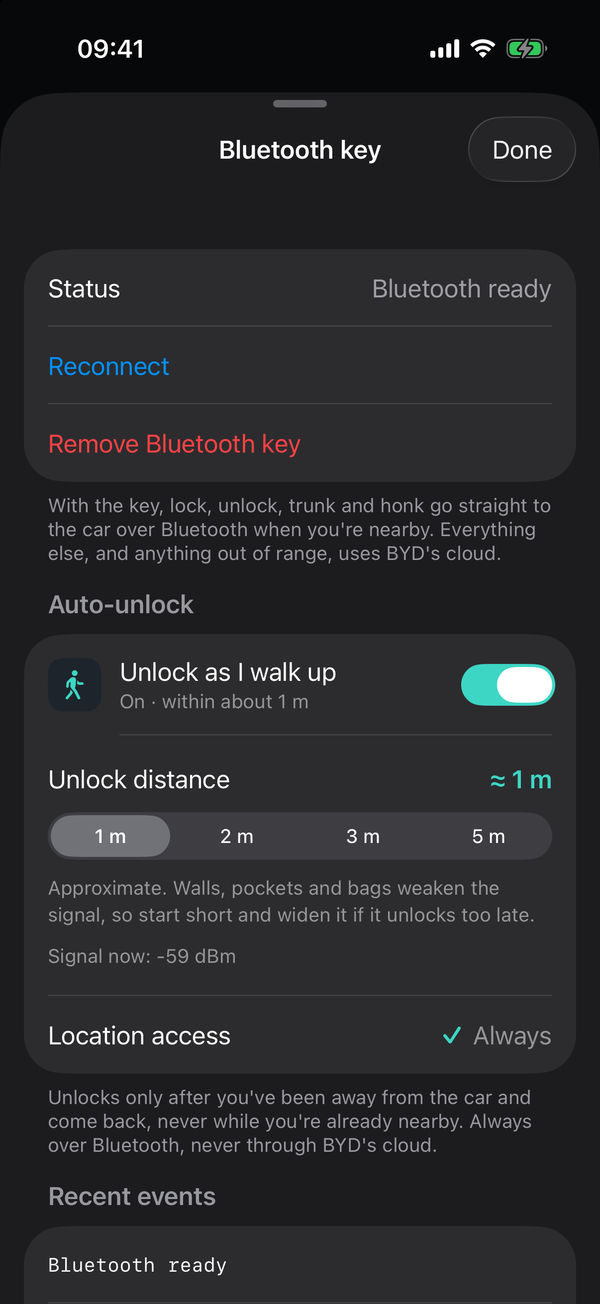
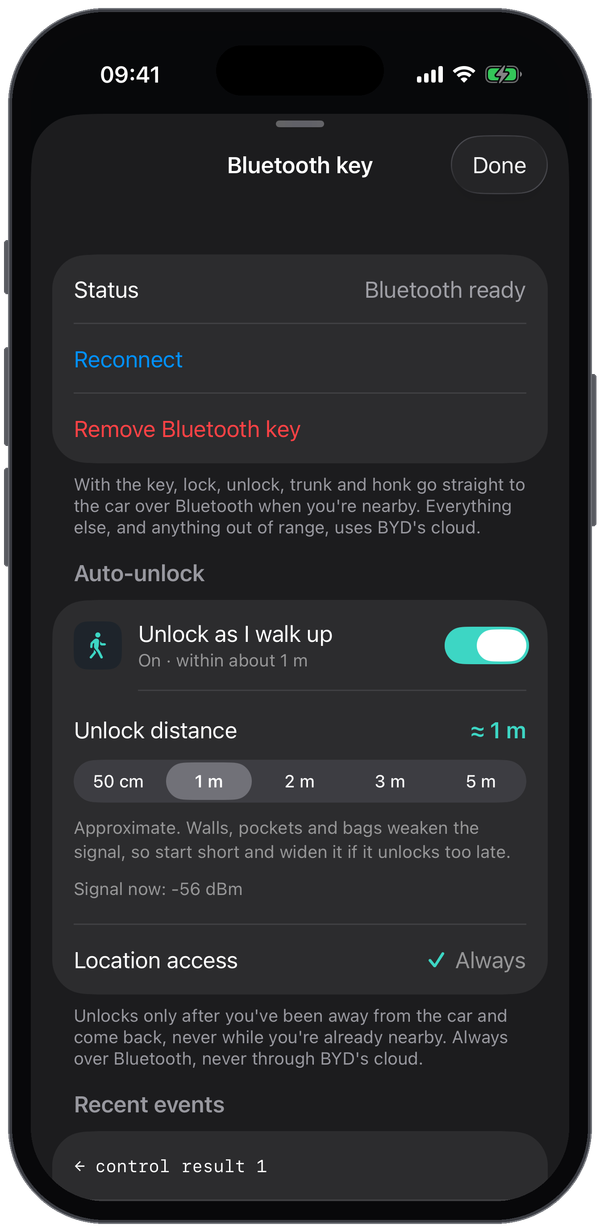
Add a 50 cm unlock distance and framed screenshots
- Auto-unlock distances are now 50 cm, 1, 2, 3 and 5 m (stored in cm;
  older saved settings in metres carry over)
- README screenshots shown inside a phone frame, with more space between

diff --git a/ios/BYDCompanion/BLE/AutoUnlock.swift b/ios/BYDCompanion/BLE/AutoUnlock.swift
@@ -14,11 +14,17 @@ import UserNotifications
 @MainActor
 @Observable
 final class AutoUnlock: NSObject {
-    static let distances = [1, 2, 3, 5]
+    /// Unlock distances, in centimetres.
+    static let distances = [50, 100, 200, 300, 500]
 
-    /// Smoothed RSSI (dBm) that roughly matches each distance in metres. Approximate:
+    /// Smoothed RSSI (dBm) that roughly matches each distance. Approximate:
     /// walls, pockets and bags weaken the signal.
-    private static let thresholds: [Int: Double] = [1: -62, 2: -67, 3: -71, 5: -76]
+    private static let thresholds: [Int: Double] = [50: -55, 100: -62, 200: -67, 300: -71, 500: -76]
+
+    /// "50 cm", "1 m", …
+    static func label(_ centimetres: Int) -> String {
+        centimetres < 100 ? "\(centimetres) cm" : "\(centimetres / 100) m"
+    }
     private static let regionID = "parked-car"
     private static let regionRadius: CLLocationDistance = 150
     private static let holdTime: TimeInterval = 1.5
@@ -63,8 +69,9 @@ final class AutoUnlock: NSObject {
     init(link: BleCarLink) {
         self.link = link
         wanted = defaults.bool(forKey: Keys.wanted)
-        let saved = defaults.integer(forKey: Keys.distance)
-        distance = Self.distances.contains(saved) ? saved : 1
+        var saved = defaults.integer(forKey: Keys.distance)
+        if [1, 2, 3, 5].contains(saved) { saved *= 100 }  // older versions saved metres
+        distance = Self.distances.contains(saved) ? saved : 100
         authorization = manager.authorizationStatus
         if let at = defaults.object(forKey: Keys.armedAt) as? Double {
             armedAt = Date(timeIntervalSince1970: at)
@@ -109,7 +116,7 @@ final class AutoUnlock: NSObject {
         default:
             break
         }
-        link.note("Auto-unlock switched on (≈\(distance) m)")
+        link.note("Auto-unlock switched on (≈\(Self.label(distance)))")
         updateRegion()
         if isOn, link.state == .ready { manager.requestLocation() }
     }

diff --git a/ios/BYDCompanion/BLE/BluetoothViews.swift b/ios/BYDCompanion/BLE/BluetoothViews.swift
@@ -135,10 +135,10 @@ struct BluetoothSheet: View {
                     HStack {
                         Text("Unlock distance")
                         Spacer()
-                        Text("≈ \(autoUnlock.distance) m").fontWeight(.semibold).foregroundStyle(Theme.accent)
+                        Text("≈ \(AutoUnlock.label(autoUnlock.distance))").fontWeight(.semibold).foregroundStyle(Theme.accent)
                     }
                     Picker("Unlock distance", selection: $autoUnlock.distance) {
-                        ForEach(AutoUnlock.distances, id: \.self) { Text("\($0) m").tag($0) }
+                        ForEach(AutoUnlock.distances, id: \.self) { Text(AutoUnlock.label($0)).tag($0) }
                     }
                     .pickerStyle(.segmented)
                     Text("Approximate. Walls, pockets and bags weaken the signal, so start short and widen it if it unlocks too late.")
@@ -176,7 +176,7 @@ struct BluetoothSheet: View {
     private var autoUnlockSubtitle: String {
         guard autoUnlock.isOn else { return "Off" }
         guard autoUnlock.carLocation != nil else { return "On · connect to the car once so it knows where it's parked" }
-        return "On · within about \(autoUnlock.distance) m"
+        return "On · within about \(AutoUnlock.label(autoUnlock.distance))"
     }
 }
 

diff --git a/README.md b/README.md
@@ -7,12 +7,12 @@ An unofficial iPhone app for BYD cars: see battery, range, locks, windows and ty
 ## Screenshots
 
 <p align="center">
-  <img src="docs/screenshots/home.png" width="260" alt="Home screen: battery 78%, 812 km total range, car locked, Bluetooth ready">
-  <img src="docs/screenshots/controls.png" width="260" alt="Home screen with the car unlocked and the A/C on">
-  <img src="docs/screenshots/bluetooth.png" width="260" alt="Bluetooth key sheet with auto-unlock on and a 1 m unlock distance">
+  <img src="docs/screenshots/home.png" width="250" alt="Home screen: battery 78%, 812 km total range, car locked, Bluetooth ready">
+  &nbsp;&nbsp;&nbsp;&nbsp;&nbsp;&nbsp;
+  <img src="docs/screenshots/controls.png" width="250" alt="Home screen with the car unlocked and the A/C on">
+  &nbsp;&nbsp;&nbsp;&nbsp;&nbsp;&nbsp;
+  <img src="docs/screenshots/bluetooth.png" width="250" alt="Bluetooth key sheet with auto-unlock on and unlock distances from 50 cm to 5 m">
 </p>
-
-<p align="center"><sub>Sample data from demo mode. To try it yourself, add the launch argument <code>-demo YES</code> in Xcode › Product › Scheme › Edit Scheme › Run › Arguments.</sub></p>
 
 ## How it works
 
@@ -93,7 +93,7 @@ In the Bluetooth sheet, turn on **Unlock as I walk up** and allow location **Alw
 
 - Each time the phone connects to or disconnects from the car, it remembers that spot and watches a ~150 m zone around it. iOS wakes the app there even if it's closed.
 - Leaving the zone while not connected arms auto-unlock. Driving away, connected the whole time, doesn't.
-- When you come back, the app reconnects and sends one Bluetooth unlock once the signal stays above the chosen distance (1–5 m) for 1.5 seconds. It never unlocks through the cloud, and a quiet notification tells you it happened.
+- When you come back, the app reconnects and sends one Bluetooth unlock once the signal stays above the chosen distance (50 cm to 5 m) for 1.5 seconds. It never unlocks through the cloud, and a quiet notification tells you it happened.
 
 The distances are rough guesses from signal strength: walls, pockets and bags change them. The Bluetooth sheet shows the live signal to help you pick one.
 
